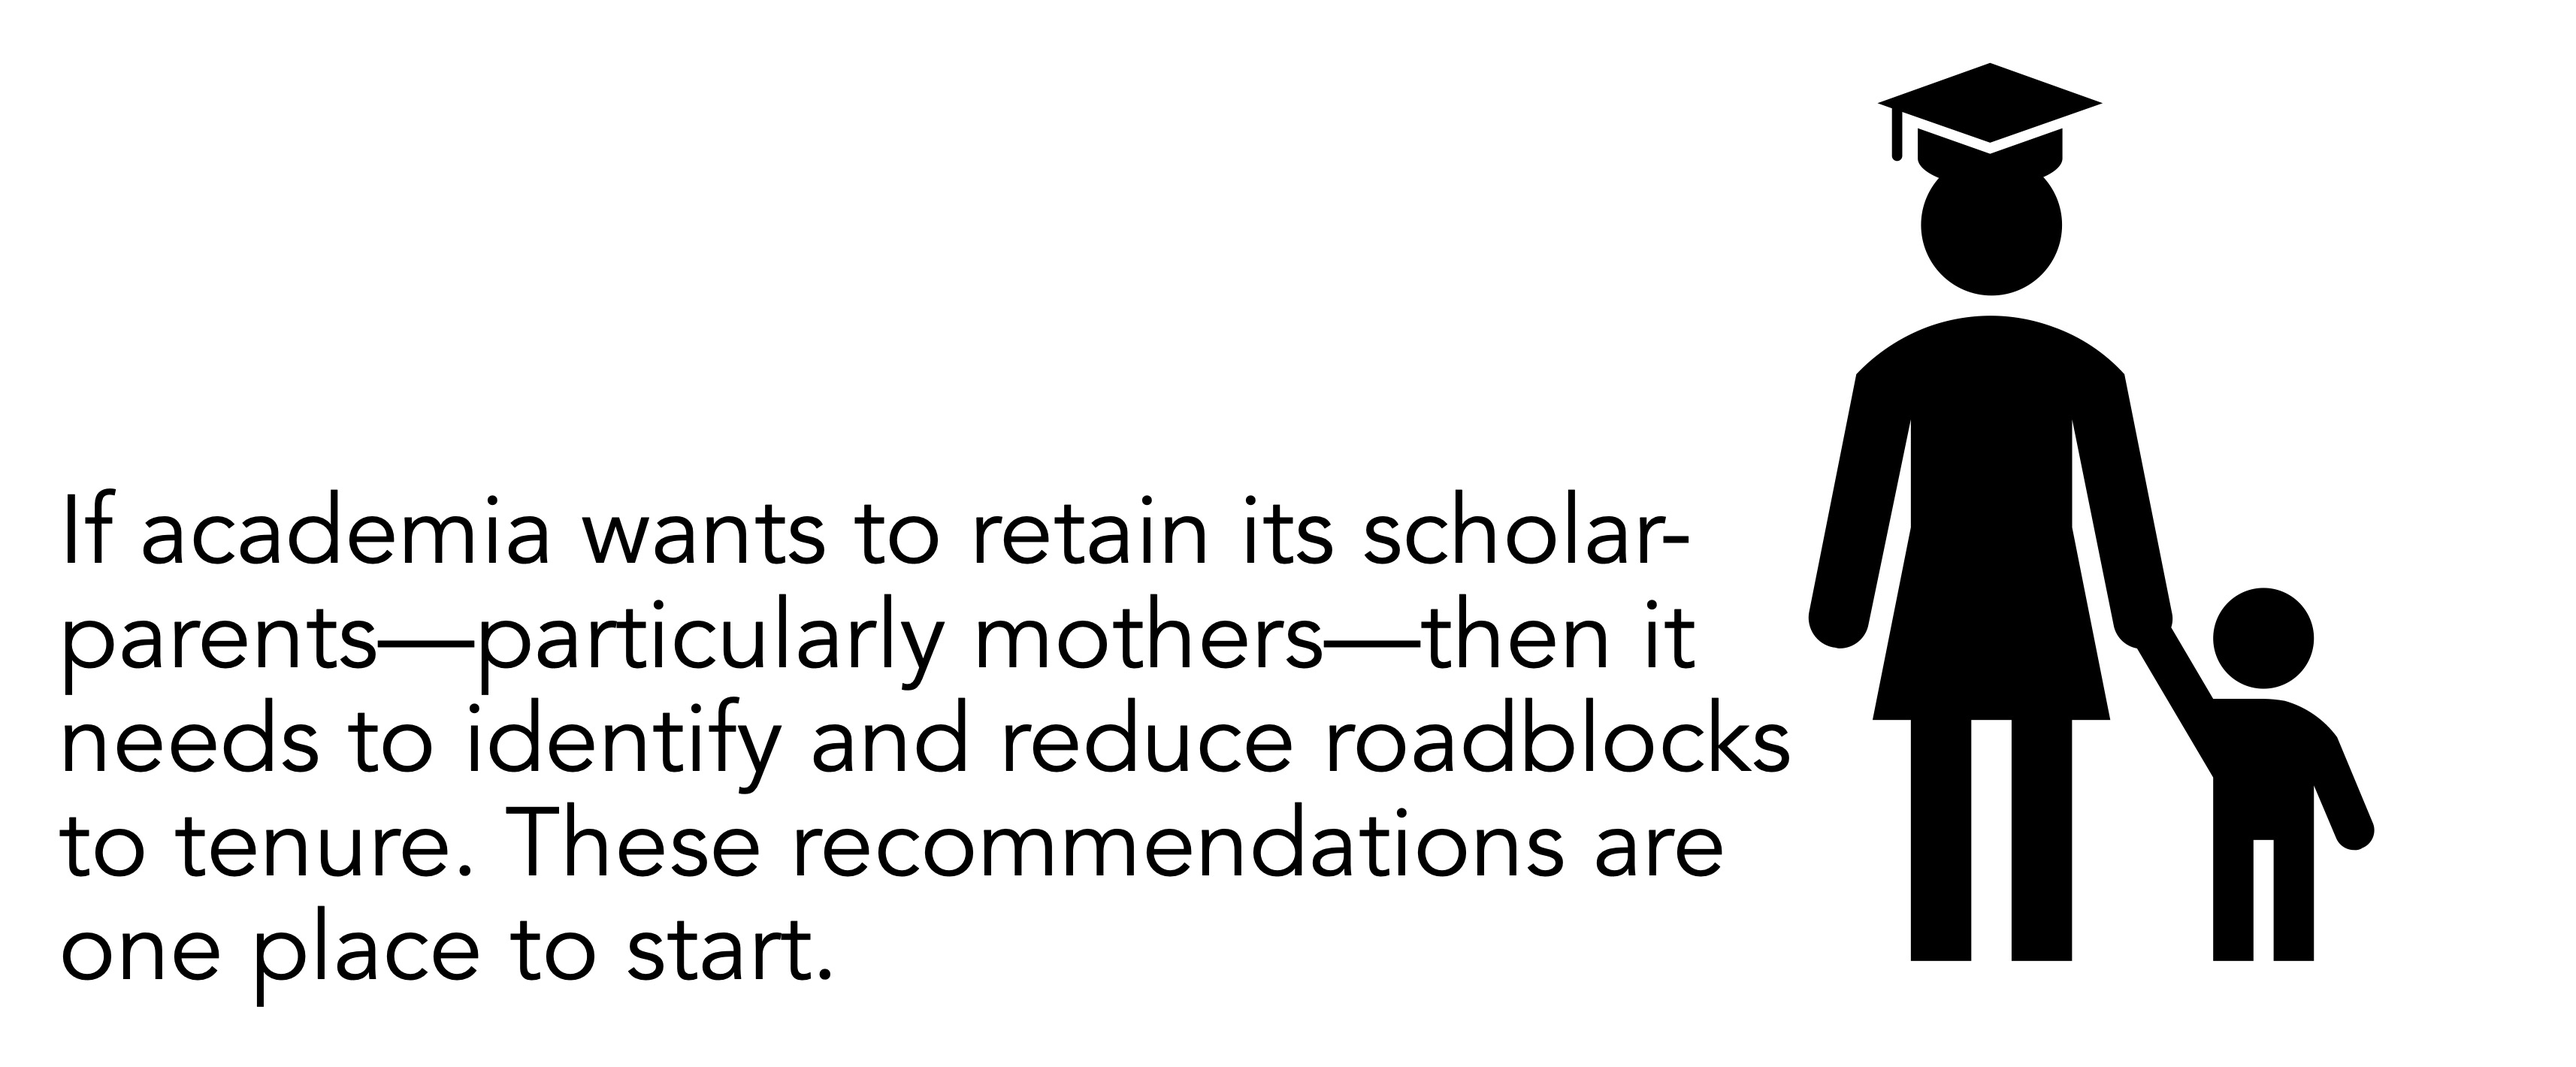
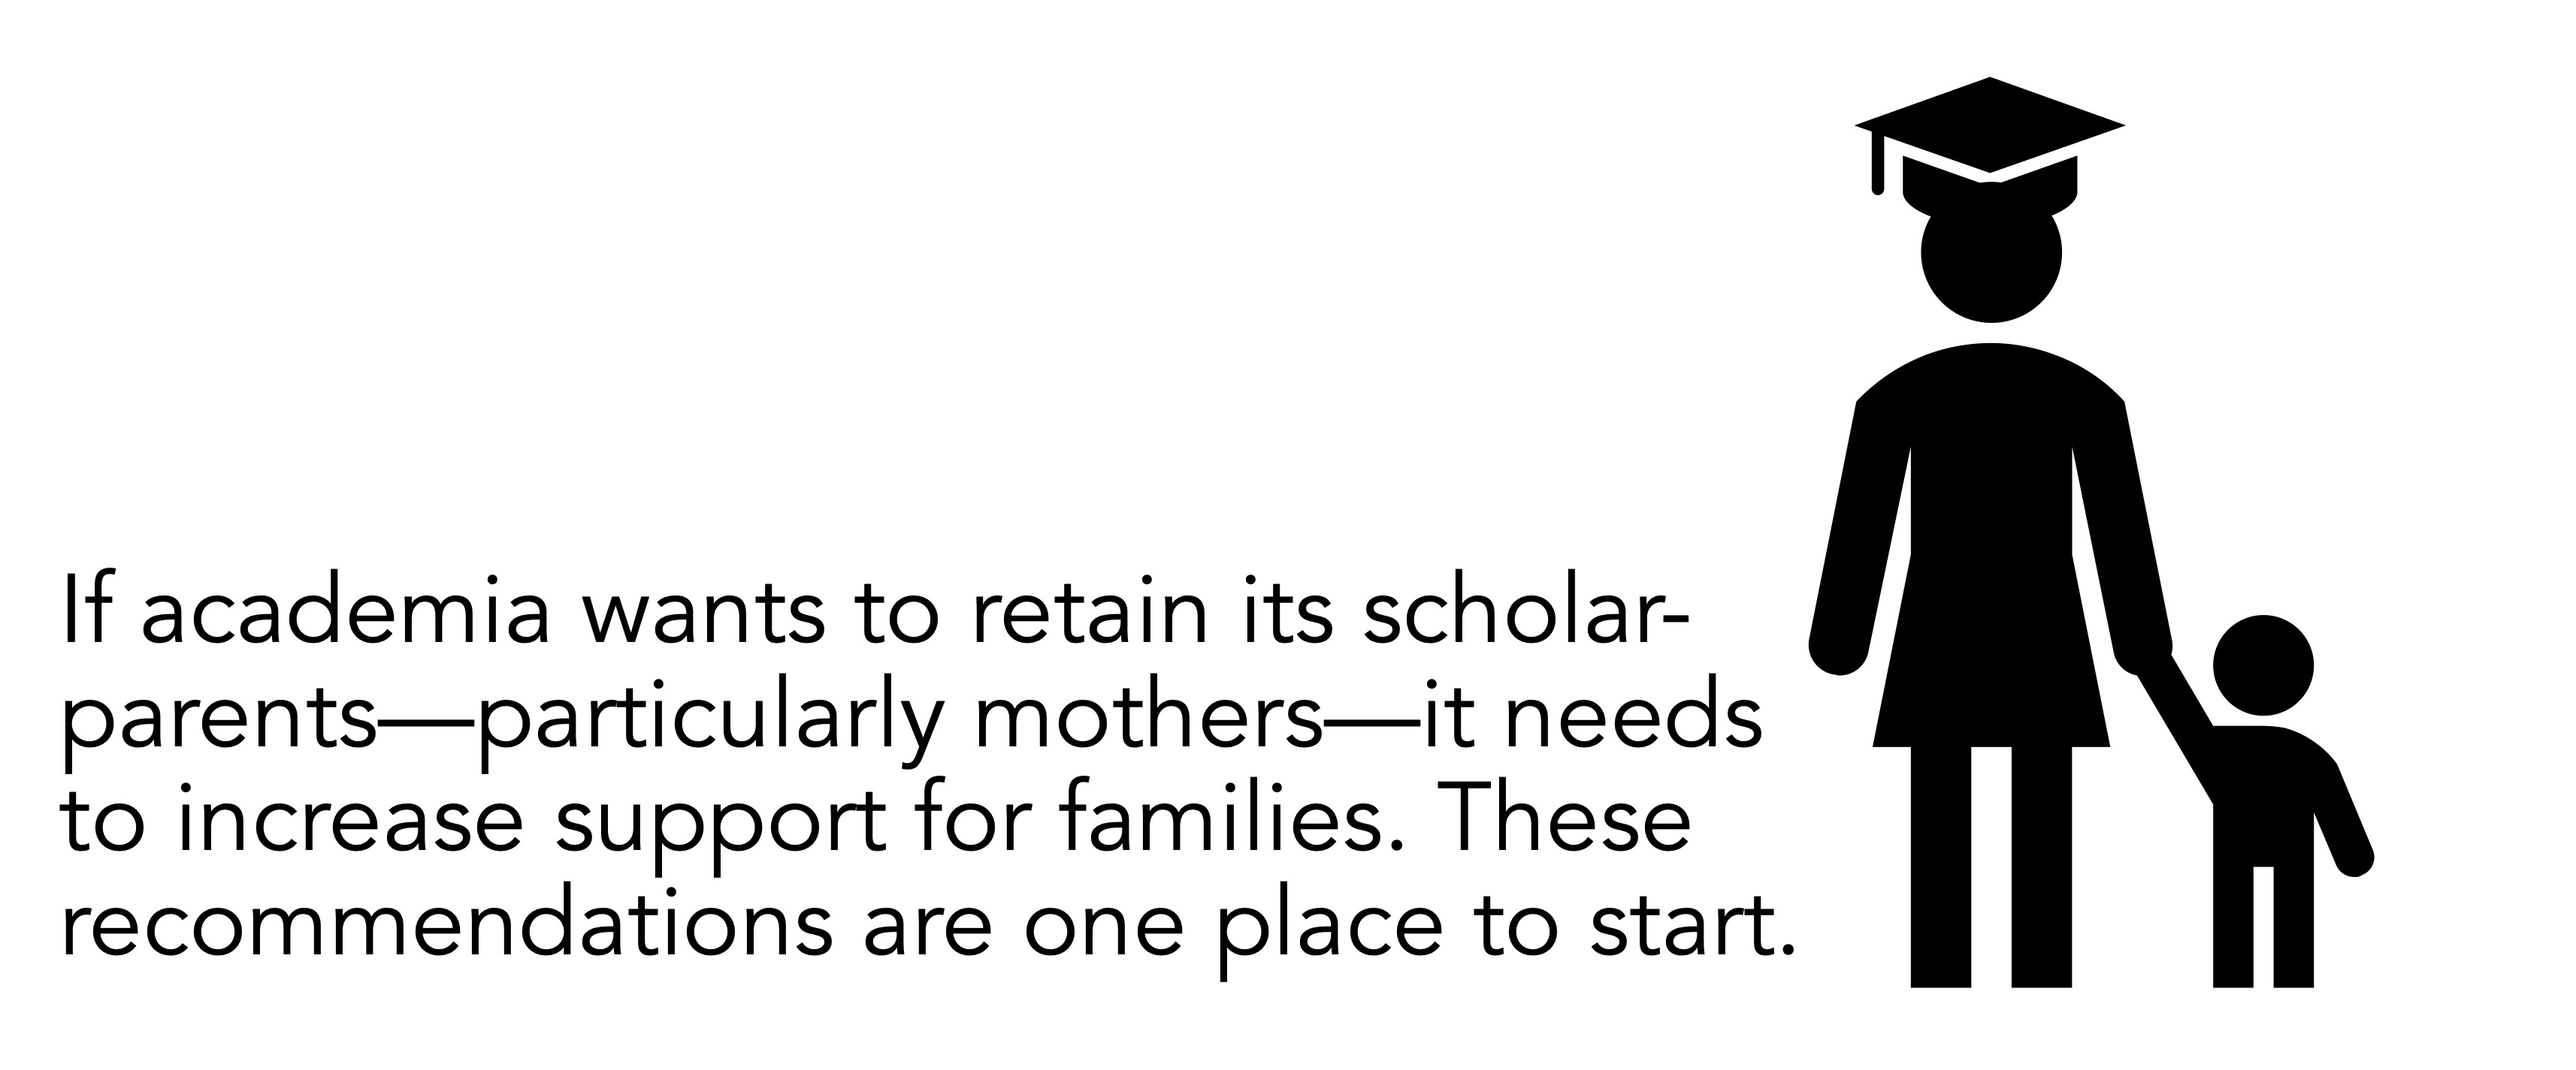
Update blog

diff --git a/content/post/Nursing-support/index.md b/content/post/Nursing-support/index.md
@@ -45,13 +45,13 @@ I made the decision to breastfeed with eyes wide open. I understood its benefits
 
 We got off to a rocky start. My newborn was nearly hospitalized after losing too much weight after birth. On the advice of her doctor, we tried &mdash; several times &mdash; offering formula. Each time ended in projectile vomit, and lots of tears.
 
-Mercifully, blessedly, thankfully, my university-sponsored health plan covered unlimited visits with a lactation consultant. With two weeks of daily visits, we successfully established nursing. There were later bumps in the road (oversupply, then undersupply, then plugged ducts), but it no longer felt like a life-or-death situation. 
+Mercifully, blessedly, thankfully, my university health plan covered unlimited visits with a lactation consultant. Within two weeks, we successfully established nursing. There were later bumps in the road (oversupply, then undersupply, then plugged ducts), but it no longer felt like a life-or-death situation. 
 
-Then, when my daughter was six weeks old, the first formula recall notice was issued. The [situation worsened throughout 2022](https://www.nytimes.com/2022/05/10/us/baby-formula-shortage.html). While the news coverage has slowed, on-the-ground shortage remains. Despite actively looking in every store I enter, I still have not seen formula on the shelves.
+When my daughter was six weeks old, the first formula recall notice was issued. The [situation worsened throughout 2022](https://www.nytimes.com/2022/05/10/us/baby-formula-shortage.html). While the news coverage has slowed, on-the-ground shortage remains. Despite actively looking in every store I enter, I still have not seen formula on the shelves.
 
 My daughter is now 11 months old and has not needed formula supplementation, thanks in large part due to the support of my spouse, healthcare workers, and daycare providers. It is a deep privilege to exclusively breastfeed my daughter, a challenge and a bond that I am daily grateful for. Soon, I will no longer be my child's primary source of nutrition, though we may continue nursing. 
 
-As I approach the end of my pumping journey, I felt compelled to write a long-form primer on breastfeeding, for people who have never been a nursing parent. Before giving you one-off recommendations, here are the things you need to know about breastfeeding and pumping.
+As I approach the end of my pumping journey, I felt compelled to write a long-form primer on breastfeeding, for people who have never been a nursing parent. Before giving you recommendations, here are the things you need to know about breastfeeding and pumping.
 
 ![screen reader text](should-know.jpg "Stuff You Should Know")
 
@@ -62,23 +62,24 @@ As I approach the end of my pumping journey, I felt compelled to write a long-fo
 
 **2. Milk needs to be removed from the breasts with high frequency.**
 
-- If milk is not removed with high frequency, there is an immediate risk to the nursing parent ranging from engorgement and plugged ducts to mastitis.
+- If milk is not removed with high frequency, there is an immediate risk to the nursing parent ranging from engorgement and plugged ducts to mastitis. Missing even one feed or pump can be painful.
 
 **3. Breast pumps are not a perfect substitute for direct breastfeeding.**
 
-- Pumping without contact with your child can be stressful and psychologically taxing. Even a couple of days of travel while exclusively pumping can cause a significant drop in your supply.
+- Pumping without proximity to your child can be stressful and psychologically taxing. Time apart from your child while exclusively pumping can still cause a drop in your supply.
 
 **4. Human milk (or formula) is the primary source of nutrition for the first YEAR of life.**
 
-- The [American Academy of Pediatrics](https://publications.aap.org/pediatrics/article-abstract/150/1/e2022057988/188347/Policy-Statement-Breastfeeding-and-the-Use-of/) recommends exclusive nursing for the first six months of life. That means no formula supplementation. 
+- The [American Academy of Pediatrics](https://publications.aap.org/pediatrics/article-abstract/150/1/e2022057988/188347/Policy-Statement-Breastfeeding-and-the-Use-of/) recommends exclusive nursing for the first six months of life. That means no formula supplementation.
 - Solids can be introduced at six months, but human milk should remain the primary source of nutrition until twelve months. 
 - Only after twelve months can cow's milk be introduced. 
 - The AAP further recommends that nursing should continue through age 2 years.
 
-**5. The safe storage of human milk is logistically complex for working parents.**
+**5. Safe storage of human milk is logistically complex for working parents.**
 
 - Pumped milk needs to be kept in a refrigerator, and either be used within 4 days or frozen. Thawed milk needs to be used within 24 hours, and it can never be refrozen. 
-- In addition, some nursing parents have excess lipase activity, causing their infant to refuse thawed milk. For those still keeping track, this means milk pumped on Friday cannot be used on Monday without being frozen.
+- In addition, some nursing parents may have excess lipase activity, causing a soap-like taste in thawed milk, which most infants refuse to take. 
+- For those still keeping track, milk pumped during the workday on Friday cannot be used on Monday without being frozen.
 
 ![screen reader text](guidelines.jpg "CDC guidelines for human milk storage")
 
@@ -86,7 +87,7 @@ As I approach the end of my pumping journey, I felt compelled to write a long-fo
 
 - Pumping needs to be done with clean hands, on clean surfaces, with clean pump parts.
 - Some nursing parents may also require access to an outlet to operate or charge their pump. 
-- Even if someone has a wearable pump, they will still need a clean space to transfer milk into a storage bag for refrigeration and wash the pump parts.
+- Even if someone has a wearable pump, they will still need a clean space to remove the pump, transfer milk into a storage bag for refrigeration, and wash the pump parts.
 
 #### If you are in a position of power and want to support graduate student parents, keep reading. While this is generally good advice for supporting student-parents regardless of how they feed their children, I offer specific recommendations around breastfeeding.
 
@@ -94,39 +95,42 @@ As I approach the end of my pumping journey, I felt compelled to write a long-fo
 
 **1. Talk to your students**
 
-- Before they return to in-person work, check in to offer your support. - Acknowledge that the transition can be challenging, physically and emotionally. 
+- Before they return to in-person work, check in to offer your support. 
+- Acknowledge that the transition can be challenging, physically and emotionally.
 - Ask if they will need the time and room space for nursing, and ensure the necessary systems are in place (see above). Legally, employees are entitled to some minimum standard of sufficient time and space to pump human milk. Ensure your basic compliance and support your sleep-deprived student.
 
-**2. Optimize the space set up for pumping**
+**2. Optimize the pumping space**
 - Provide a private, clean space, in their primary building, with the ability to lock the room. Do not require a separate email message or approval to access the room.
-- Allow for day-of room booking. Babies are unpredictable, and the night-before feeding schedule can often dictate the day-of pumping schedule. Similarly, research is also unpredictable. They may need to work at different times of day, or adjust if something goes wrong. Permit flexibility
+- Allow for day-of room booking. Babies are unpredictable, and the night-before feeding schedule can often dictate the day-of pumping schedule. Similarly, research is also unpredictable. They may need to work at different times of day, or adjust if something goes wrong. Permit flexibility.
 - Consider providing some basics, like sterilizing wipes for surfaces, pump cleaning wipes, milk storage bags, and a mini fridge for daily storage.
 
 **3. Minimize or eliminate overnight travel and fieldwork**
 
 ...at least within the first six months, ideally for the first year.
 
-Overnight travel is a prolonged period away from their infant, and a logistical nightmare for the safe storage of pumped milk. Some questions your student will have to answer: *Will there be a fridge? Can I carry the pumped milk in a cooler bag? If I am gone longer than 4 days, should I freeze it and express ship it home? How? Will my milk supply drop? How often do I need to pump to maintain my supply?*
+Overnight travel is a prolonged period away from their infant, and a logistical nightmare for the safe storage of pumped milk. Some questions your student will have to answer: *Will there be a fridge? Can I reasonably carry pumped milk in a cooler bag? What about getting through airport security? If I am gone longer than 4 days, should I freeze it and express ship it home? How? Will my milk supply drop? How often do I need to pump to maintain my supply?*
 
-Overnight travel also requires the nursing parent to plan significantly far in advance because their child still needs to eat while they are away from their primary, or only, food source. Building up a freezer stash of frozen milk can take a long time. 
+Overnight travel also requires the nursing parent to plan significantly far in advance because their child still needs to eat while their food source is away. Building up a freezer stash of frozen milk can take a long time. 
 
-Fieldwork is dirty, with limited private space, and often conducted under a tremendous, stressful time crunch. Finding a way to pump in a clean environment, with privacy, every three hours, cleaning your pump parts, storing the pumped milk in a cold place, let alone having access to a charging port... Wearable pumps do not fix these problems.
+Fieldwork is dirty, with limited private space, and often conducted under a tremendous time crunch. Finding a clean environment to safely pump, with privacy and access to a charging port, for 20 minutes every three hours, then having to clean your pump parts, store the expressed milk in a cold place, and get it into a fridge before it expires... Wearable pumps do not fix these problems.
 
-#### Give your student the option to opt-in, but do not require them to travel or conduct fieldwork.
+#### Give your student the ability to opt-in, but do not require them to travel or conduct fieldwork.
 
 
 **4. Advocate for longer parental leave**
 
-Nearly all federal agencies and professional societies that handle some aspect of public health recommend that babies are [exclusively breastfed for the first six months of life](https://www.dietaryguidelines.gov/sites/default/files/2020-12/Dietary_Guidelines_for_Americans_2020-2025.pdf#page=65). This means that the lactating, usually birthing parent, is the infant's sole and around-the-clock food source. For emphasis, babies eat every 2 to 3.5 hours. Yet, parental leave in the United States is only protected for unpaid leave for up to 12 weeks, which is less than half the time of the exclusive breastfeeding period. 
+Nearly all federal agencies and professional societies that handle some aspect of public health recommend that babies are [exclusively breastfed for the first six months of life](https://www.dietaryguidelines.gov/sites/default/files/2020-12/Dietary_Guidelines_for_Americans_2020-2025.pdf#page=65). This means that the lactating, usually birthing parent, is the infant's sole and around-the-clock food source. For emphasis, babies eat _every 2 to 3.5 hours_. Yet, [protected parental leave in the United States](https://www.dol.gov/agencies/whd/fmla) is for only 12 weeks (unpaid), which is less than half the time of the exclusive breastfeeding period. 
 
 As an advocate for your graduate student, push for a minimum of six months of parental leave. As a direct supervisor, set up systems to allow your graduate student to stay home, at least within those first six months.
 
 **5. Advocate for affordable, on-site childcare.**
 
-On-site makes everyone happier and more productive. Nursing is often faster than pumping because there is no necessary set up or cleaning. On-site childcare also means valuable hours aren't being spent commuting to campus. And generally, proximity tends to decrease anxiety in parents, allowing them to focus on their work.
+On-site care makes everyone happier and [makes parents more productive](https://www.emerald.com/insight/content/doi/10.1108/JMP-06-2012-0182/full/html). Nursing is often faster than pumping because there is no necessary set up or cleaning. On-site childcare also means valuable hours aren't being spent commuting to campus. And generally, proximity tends to decrease anxiety in parents, allowing them to focus on their work.
 
-On-campus childcare is usually reserved as a perk for faculty, and sometimes for staff. The sky-rocketing cost of childcare is pushing women out of the labor market, and the same is true for academia. As a reference point, the United States Department of Health and Human Services says affordable childcare should not exceed 7\% of a household's annual income. Yet, 51\% of parents say they spend more than 20\% of household income on child care (I am in this group, with one child in part-time care). 
+At universities, on-campus childcare is usually reserved as a perk for faculty, and sometimes for staff. The sky-rocketing [cost of childcare is keeping women out of the labor market](https://www.marketplace.org/2022/07/08/lack-of-affordable-child-care-keeping-women-out-of-workforce/), and the same is true for academia. As a reference point, the United States Department of Health and Human Services [says affordable childcare should not exceed 7\% of a household's annual income](https://bipartisanpolicy.org/blog/demystifying-child-care-affordability/). Yet, [51\% of parents say they spend more than 20\% of household income on child care](https://www.care.com/about/press/majority-of-families-spend-at-least-20-of-household-income-on-childcare-according-to-new-care-com-survey/) (I am in this group, with one child in part-time care). 
 
 As an advocate for your graduate student, push for additional stipend towards childcare and reduced rates for on-campus care. As a direct supervisor, allow for flexible working arrangements.
 
-![screen reader text](end.jpg "If academia wants to retain its scholar-parents?particularly mothers?then it needs to identify and reduce roadblocks to tenure. These recommendations are one place to start.")
+Change doesn't happen overnight, but little things can go a long way in supporting graduate student parents.
+
+![screen reader text](end.jpg "If academia wants to retain its scholar-parents?particularly mothers?it needs to increase support for family life. These recommendations are one place to start.")
